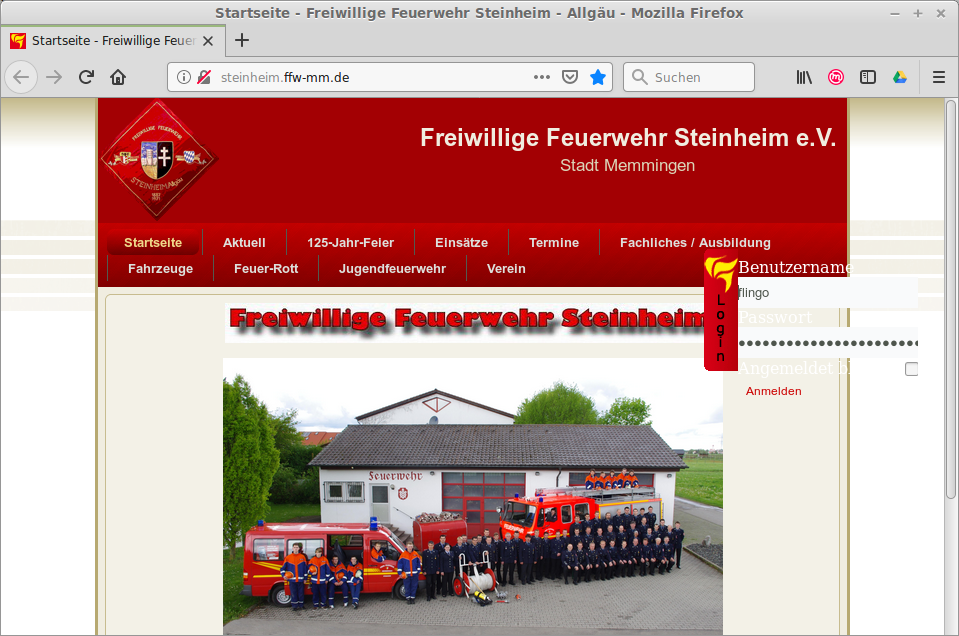
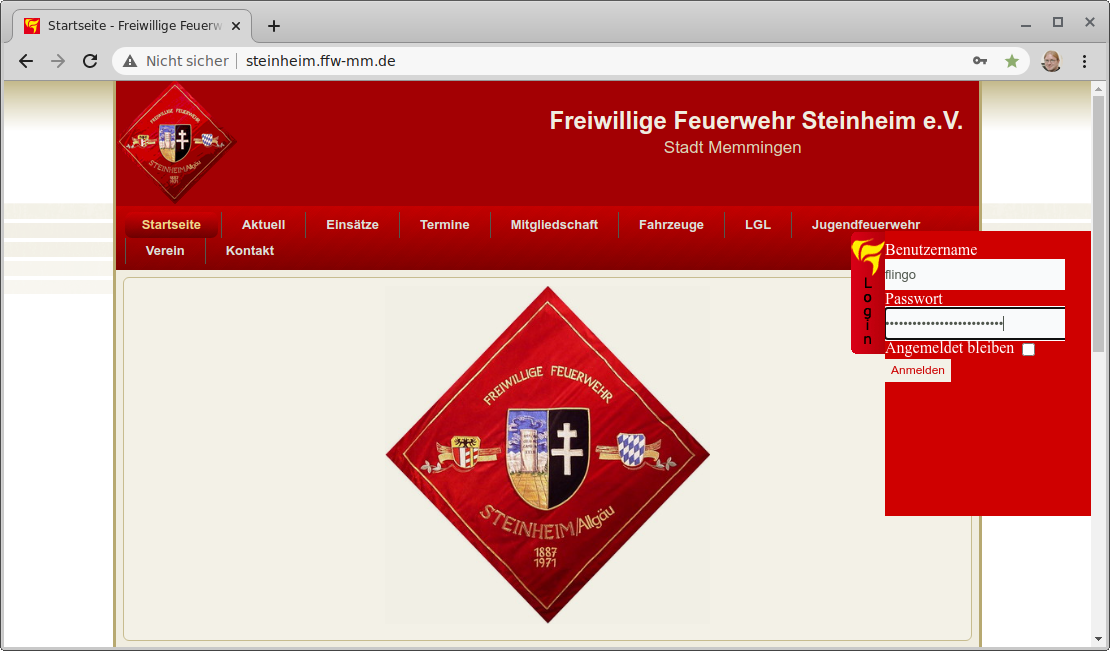
SMS-Phising ergänzt und Homepage-Bild aktualisiert.

diff --git a/main.tex b/main.tex
@@ -414,6 +414,20 @@ BSI-Video zu Phising:
 \end{figure}
 \end{frame}
 
+\only<article>{\subsubsection{SMS-Phishing}}
+
+\begin{frame}
+\only<presentation>{
+  \frametitle{SMS-Phishing}
+}
+\begin{itemize}
+  \item Auch als Smishing bekannt
+  \item Aufruf des Links in SMS führt zur Installation von Schadsoftware
+  \item Täter geben etwa vor, dass die Empfänger der SMS bald ein Paket erhalten oder eine Sendung zurück an den Absender gehen soll
+\end{itemize}
+\end{frame}
+
+
 \only<article>{\subsubsection{Falscher Microsoft-Servicevertrag}}
 
 \begin{frame}
